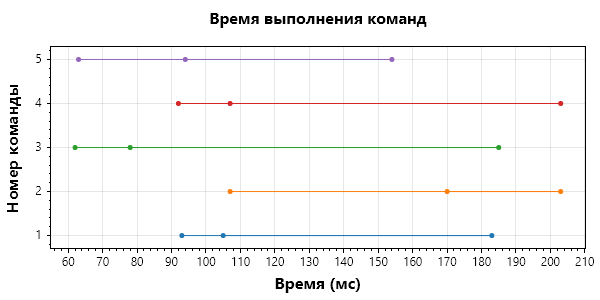
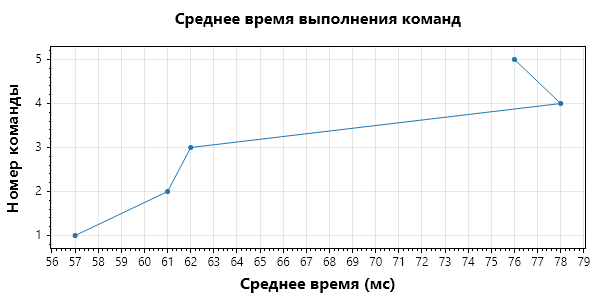
fix(task18): update command visualization and reporting format

diff --git a/task18/Analyzer.cs b/task18/Analyzer.cs
@@ -1,99 +1,52 @@
-using System.Diagnostics;
-using ScottPlot;
+using ScottPlot;
 
-namespace task18;
-
-public class PerformanceAnalyzer
+class Program
 {
-    public class TimedLongCommand : ILongRunningCommand
+    static void Main()
     {
-        public int Id { get; }
-        public List<long> StepTimes { get; } = new();
-        private int _currentStep;
-        private readonly int _totalSteps;
-        private readonly Action<int> _action;
+        var scheduler = new RoundRobinScheduler();
+        var server = new ServerThread(scheduler);
 
-        public bool IsCompleted => _currentStep >= _totalSteps;
+        int commandsCount = 5;
 
-        public TimedLongCommand(int id, int steps, Action<int> action)
+        var commands = new List<ServerThread.LongRunningCommand>();
+
+        for (int i = 0; i < commandsCount; i++)
         {
-            Id = id;
-            _totalSteps = steps;
-            _action = action;
-        }
-
-        public void Execute()
-        {
-            if (IsCompleted) return;
-
-            var sw = Stopwatch.StartNew();
-            _action(_currentStep);
-            sw.Stop();
-
-            StepTimes.Add(sw.ElapsedMilliseconds);
-            _currentStep++;
-        }
-    }
-
-    public static void Main()
-    {
-        var server = new ServerThread();
-        var commands = new List<TimedLongCommand>();
-        var random = new Random();
-
-        for (int i = 0; i < 5; i++)
-        {
-            var cmd = new TimedLongCommand(
-                id: i + 1,
-                steps: 3,
-                action: step => Thread.Sleep(random.Next(50, 200))
-            );
-            commands.Add(cmd);
-            server.Enqueue(cmd);
+            int delay = 50 + i * 5;
+            commands.Add(new ServerThread.LongRunningCommand(() => Thread.Sleep(delay)));
         }
 
         server.Start();
 
-        while (commands.Any(c => !c.IsCompleted))
-            Thread.Sleep(100);
+        foreach (var cmd in commands)
+            server.Enqueue(cmd);
+
+        Thread.Sleep(2000);
 
         server.Enqueue(new SoftStopCommand(server));
         server.WaitForCompletion();
 
-        GenerateReport(commands);
-    }
-
-    private static void GenerateReport(List<TimedLongCommand> commands)
-    {
         var plt = new Plot();
-        plt.Title("Время выполнения команд");
+        double[] commandNumbers = Enumerable.Range(1, commandsCount).Select(x => (double)x).ToArray(); 
+        double[] avgTimes = commands.Select(c => c.ExecutionTimes.Any() ? c.ExecutionTimes.Average() : 0).ToArray();
+
+        plt.Title("Среднее время выполнения команд");
+        plt.XLabel("Среднее время (мс)");
         plt.YLabel("Номер команды");
-        plt.XLabel("Время (мс)");
+        
+        var scatter = plt.Add.Scatter(avgTimes, commandNumbers);
+        
+        plt.SavePng("graph.png", 600, 300);
+
+        string report = "Отчет\n\n";
+        report += "Номер команды | Среднее время (мс)\n";
 
         for (int i = 0; i < commands.Count; i++)
         {
-            var times = commands[i].StepTimes;
-            plt.Add.Scatter(
-                times.Select(t => (double)t).ToArray(),
-                Enumerable.Repeat((double)i + 1, times.Count).ToArray()
-            );
+            report += $"{i + 1,13} | {commands[i].ExecutionTimes.Average(),18:F2}\n";
         }
 
-        plt.SavePng("graph.png", 600, 300);
-
-        var report = new System.Text.StringBuilder();
-        report.AppendLine($"Всего команд: {commands.Count}");
-        report.AppendLine($"Общее время выполнения: {commands.Sum(c => c.StepTimes.Sum())}мс");
-        report.AppendLine("\nДетали по командам:");
-
-        foreach (var cmd in commands.OrderBy(c => c.Id))
-        {
-            report.AppendLine($"\nКоманда {cmd.Id}:");
-            report.AppendLine($"  Шагов: {cmd.StepTimes.Count}");
-            report.AppendLine($"  Общее время: {cmd.StepTimes.Sum()}мс");
-            report.AppendLine($"  Среднее время шага: {cmd.StepTimes.Average():F1}мс");
-        }
-
-        File.WriteAllText("report.txt", report.ToString());
+        File.WriteAllText("report.txt", report);
     }
 }

diff --git a/task17/ServerThread.cs b/task17/ServerThread.cs
@@ -1,35 +1,31 @@
 using System.Collections.Concurrent;
+using System.Collections.Generic;
+using System.Diagnostics;
+using System.Threading;
 
 public interface ICommand
 {
     void Execute();
 }
 
-public interface ILongRunningCommand : ICommand
-{
-    bool IsCompleted { get; }
-}
-
 public interface IScheduler
 {
     bool HasCommand();
-    ICommand? Select();
+    ICommand Select();
     void Add(ICommand cmd);
 }
 
 public class RoundRobinScheduler : IScheduler
 {
-    private readonly ConcurrentQueue<ICommand> _commands = new();
+    private readonly Queue<ICommand> _commands = new();
     
-    public bool HasCommand() => !_commands.IsEmpty;
+    public bool HasCommand() => _commands.Count > 0;
     
-    public ICommand? Select()
+    public ICommand Select()
     {
-        if (_commands.TryDequeue(out var command))
-        {
-            return command;
-        }
-        return null;
+        var command = _commands.Dequeue();
+        _commands.Enqueue(command);
+        return command;
     }
     
     public void Add(ICommand cmd) => _commands.Enqueue(cmd);
@@ -38,9 +34,18 @@ public class RoundRobinScheduler : IScheduler
 public class ServerThread
 {
     private readonly BlockingCollection<ICommand> _commands = new();
-    private readonly IScheduler _scheduler = new RoundRobinScheduler();
+    private readonly IScheduler _scheduler;
     private volatile bool _isRunning;
     private Thread? _thread;
+
+    public ServerThread() : this(new RoundRobinScheduler())
+    {
+    }
+
+    public ServerThread(IScheduler scheduler)
+    {
+        _scheduler = scheduler;
+    }
 
     public void Start()
     {
@@ -53,31 +58,20 @@ public class ServerThread
     {
         while (_isRunning)
         {
-            if (_commands.TryTake(out var newCommand, TimeSpan.FromMilliseconds(100)))
+            if (_commands.TryTake(out var command))
             {
-                if (newCommand is ILongRunningCommand longRunningCommand)
-                {
-                    _scheduler.Add(newCommand);
-                }
-                else
-                {
-                    newCommand.Execute();
-                }
+                command.Execute();
+                continue;
             }
 
-            while (_scheduler.HasCommand())
+            if (_scheduler.HasCommand())
             {
-                var command = _scheduler.Select();
-                if (command != null)
-                {
-                    command.Execute();
-                    
-                    if (command is ILongRunningCommand longRunningCommand && !longRunningCommand.IsCompleted)
-                    {
-                        _scheduler.Add(command);
-                    }
-                }
+                var schedulerCommand = _scheduler.Select();
+                schedulerCommand.Execute();
+                continue;
             }
+
+            Thread.Sleep(10);
         }
     }
 
@@ -98,6 +92,30 @@ public class ServerThread
     }
 
     public void WaitForCompletion() => _thread?.Join();
+
+    public class LongRunningCommand : ICommand
+    {
+        private readonly Action _action;
+        private int _executionCount;
+        private readonly List<long> _executionTimes = new List<long>();
+        
+        public LongRunningCommand(Action action)
+        {
+            _action = action;
+        }
+        
+        public void Execute()
+        {
+            var sw = Stopwatch.StartNew();
+            _action();
+            _executionCount++;
+            sw.Stop();
+            _executionTimes.Add(sw.ElapsedMilliseconds);
+        }
+        
+        public int ExecutionCount => _executionCount;
+        public IReadOnlyList<long> ExecutionTimes => _executionTimes.AsReadOnly();
+    }
 }
 
 public class HardStopCommand : ICommand

diff --git a/task18tests/SchedulerTests.cs b/task18tests/SchedulerTests.cs
@@ -1,79 +1,57 @@
 using Xunit;
 
-public class SchedulerTests
+public class ServerThreadTests
 {
+    [Fact]
+    public void TestSchedulerWithLongRunningCommands()
+    {
+        var server = new ServerThread();
+        server.Start();
+
+        int executionCount = 0;
+        var longCommand = new ServerThread.LongRunningCommand(() => executionCount++);
+
+        server.Enqueue(longCommand);
+        Thread.Sleep(100);
+
+        Assert.True(executionCount > 0);
+
+        server.Enqueue(new SoftStopCommand(server));
+        server.WaitForCompletion();
+    }
+
+    [Fact]
+    public void TestRoundRobinSchedulerOrder()
+    {
+        var scheduler = new RoundRobinScheduler();
+        var server = new ServerThread(scheduler); 
+        
+        int counter1 = 0;
+        int counter2 = 0;
+        
+        var cmd1 = new TestCommand(() => counter1++);
+        var cmd2 = new TestCommand(() => counter2++);
+        
+        scheduler.Add(cmd1);
+        scheduler.Add(cmd2);
+        
+        scheduler.Select().Execute();
+        scheduler.Select().Execute();
+        scheduler.Select().Execute();
+        
+        Assert.Equal(2, counter1);
+        Assert.Equal(1, counter2);
+    }
+
     private class TestCommand : ICommand
     {
         private readonly Action _action;
-        public TestCommand(Action action) => _action = action;
+        
+        public TestCommand(Action action)
+        {
+            _action = action;
+        }
+        
         public void Execute() => _action();
-    }
-
-    private class MultiStepCommand : ILongRunningCommand
-    {
-        private readonly Action<int> _stepAction;
-        private int _currentStep;
-        private readonly int _totalSteps;
-
-        public bool IsCompleted => _currentStep >= _totalSteps;
-
-        public MultiStepCommand(Action<int> stepAction, int totalSteps)
-        {
-            _stepAction = stepAction;
-            _totalSteps = totalSteps;
-            _currentStep = 0;
-        }
-
-        public void Execute()
-        {
-            if (!IsCompleted)
-            {
-                _stepAction(_currentStep);
-                _currentStep++;
-            }
-        }
-    }
-
-    [Fact]
-    public void LongRunningCommand_ExecutesInMultipleSteps()
-    {
-        var server = new ServerThread();
-        server.Start();
-
-        var steps = new List<int>();
-        var command = new MultiStepCommand(step => steps.Add(step), 3);
-
-        server.Enqueue(command);
-        server.Enqueue(new SoftStopCommand(server));
-
-        server.WaitForCompletion();
-
-        Assert.Equal(3, steps.Count);
-        Assert.Equal(0, steps[0]);
-        Assert.Equal(1, steps[1]);
-        Assert.Equal(2, steps[2]);
-    }
-
-    [Fact]
-    public void MixedCommands_ExecuteInCorrectOrder()
-    {
-        var server = new ServerThread();
-        server.Start();
-
-        var results = new List<string>();
-        var longCommand = new MultiStepCommand(step => results.Add($"Long{step}"), 2);
-
-        server.Enqueue(new TestCommand(() => results.Add("Immediate1")));
-        server.Enqueue(longCommand);
-        server.Enqueue(new TestCommand(() => results.Add("Immediate2")));
-        server.Enqueue(new SoftStopCommand(server));
-
-        server.WaitForCompletion();
-
-        Assert.Equal(4, results.Count);
-        Assert.Equal("Immediate1", results[0]);
-        Assert.Contains("Long0", results);
-        Assert.Contains("Long1", results);
-        Assert.Equal("Immediate2", results[3]);
     }
 }
